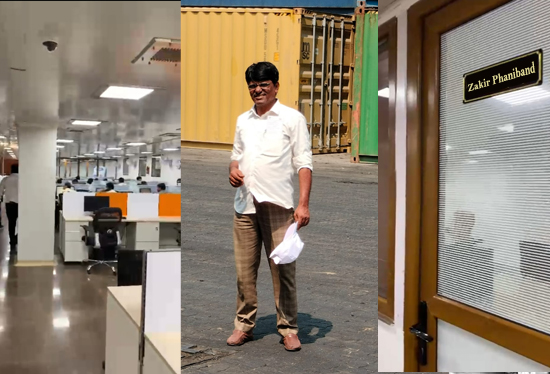
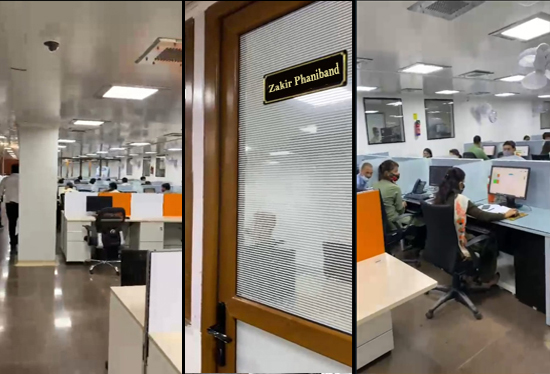
Added new images in about section

diff --git a/src/components/about.jsx b/src/components/about.jsx
@@ -1,5 +1,7 @@
 import React from "react";
 import parse from 'html-react-parser';
+import "react-responsive-carousel/lib/styles/carousel.min.css";
+import { Carousel } from 'react-responsive-carousel';
 
 export const About = (props) => {
   return (
@@ -7,34 +9,28 @@ export const About = (props) => {
       <div className="container">
         <div className="row">
           <div className="col-xs-12 col-md-6">
-            {" "}
-            <img src="img/about.jpg" className="img-responsive" alt="" />{" "}
+            <Carousel>
+              <div>
+                <img className="img-responsive" src="img/about.jpg" alt="i care global enterprises" />
+              </div>
+              <div>
+                <img className="img-responsive" src="img/about1.jpg" alt="i care global enterprises" />
+              </div>
+              <div>
+                <img className="img-responsive" src="img/about2.jpg" alt="i care global enterprises" />
+              </div>
+              <div>
+                <img className="img-responsive" src="img/about3.jpg" alt="i care global enterprises" />
+              </div>
+              <div>
+                <img className="img-responsive" src="img/about4.jpg" alt="i care global enterprises" />
+              </div>
+            </Carousel>
           </div>
           <div className="col-xs-12 col-md-6">
             <div className="about-text">
               <h2>About Us</h2>
               {props.data ? parse(props.data.paragraph) : "loading..."}
-              {/* <h3>Why Choose Us?</h3>
-              <div className="list-style">
-                <div className="col-lg-6 col-sm-6 col-xs-12">
-                  <ul>
-                    {props.data
-                      ? props.data.Why.map((d, i) => (
-                          <li key={`${d}-${i}`}>{d}</li>
-                        ))
-                      : "loading"}
-                  </ul>
-                </div>
-                <div className="col-lg-6 col-sm-6 col-xs-12">
-                  <ul>
-                    {props.data
-                      ? props.data.Why2.map((d, i) => (
-                          <li key={`${d}-${i}`}> {d}</li>
-                        ))
-                      : "loading"}
-                  </ul>
-                </div>
-              </div> */}
             </div>
           </div>
         </div>
